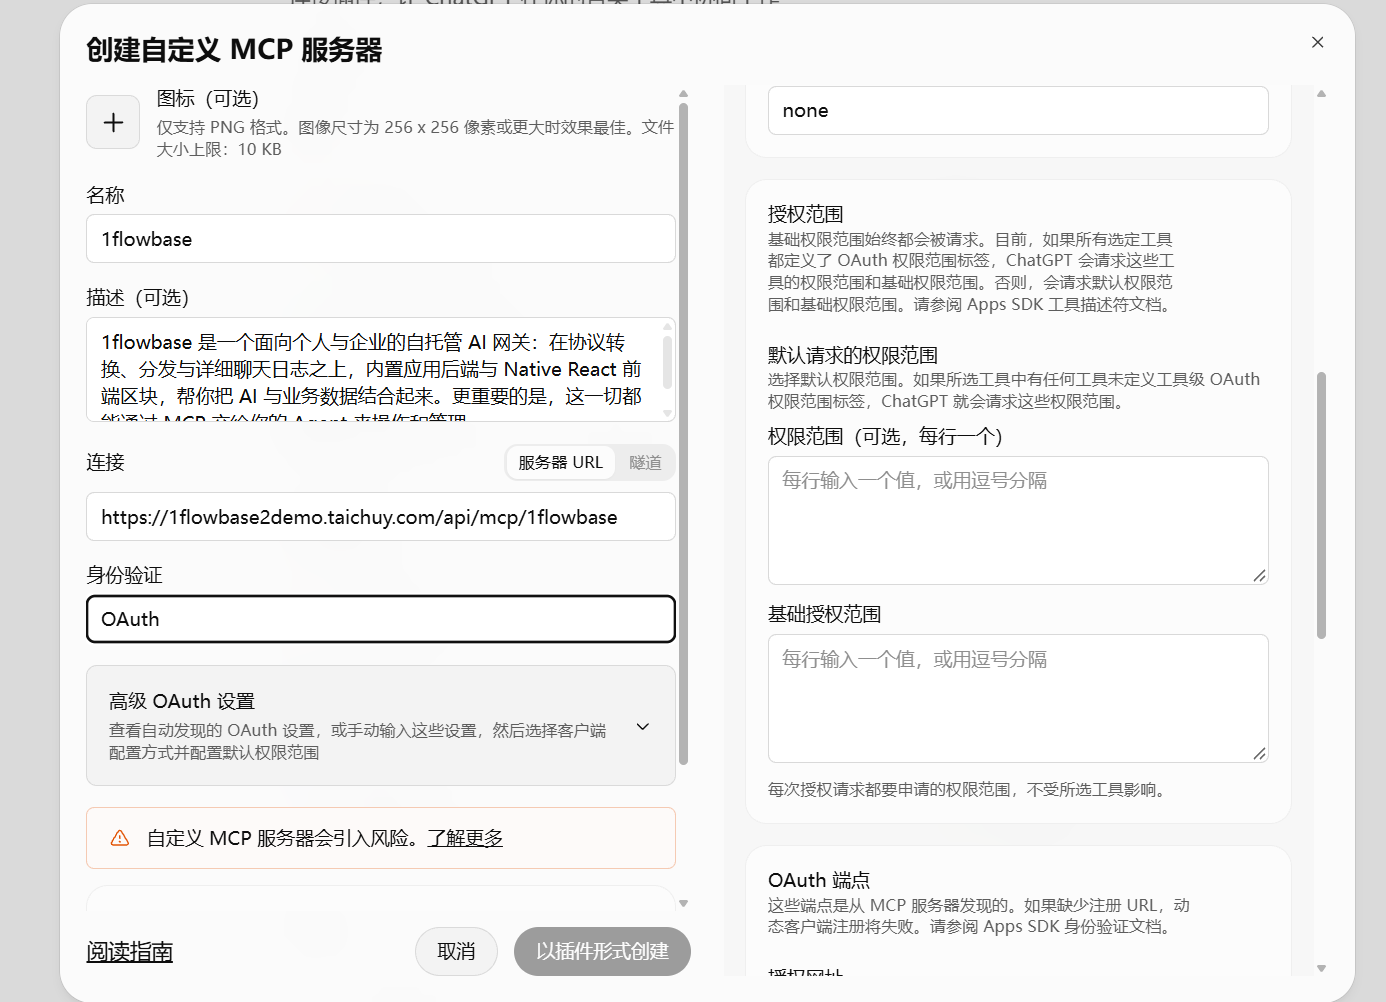
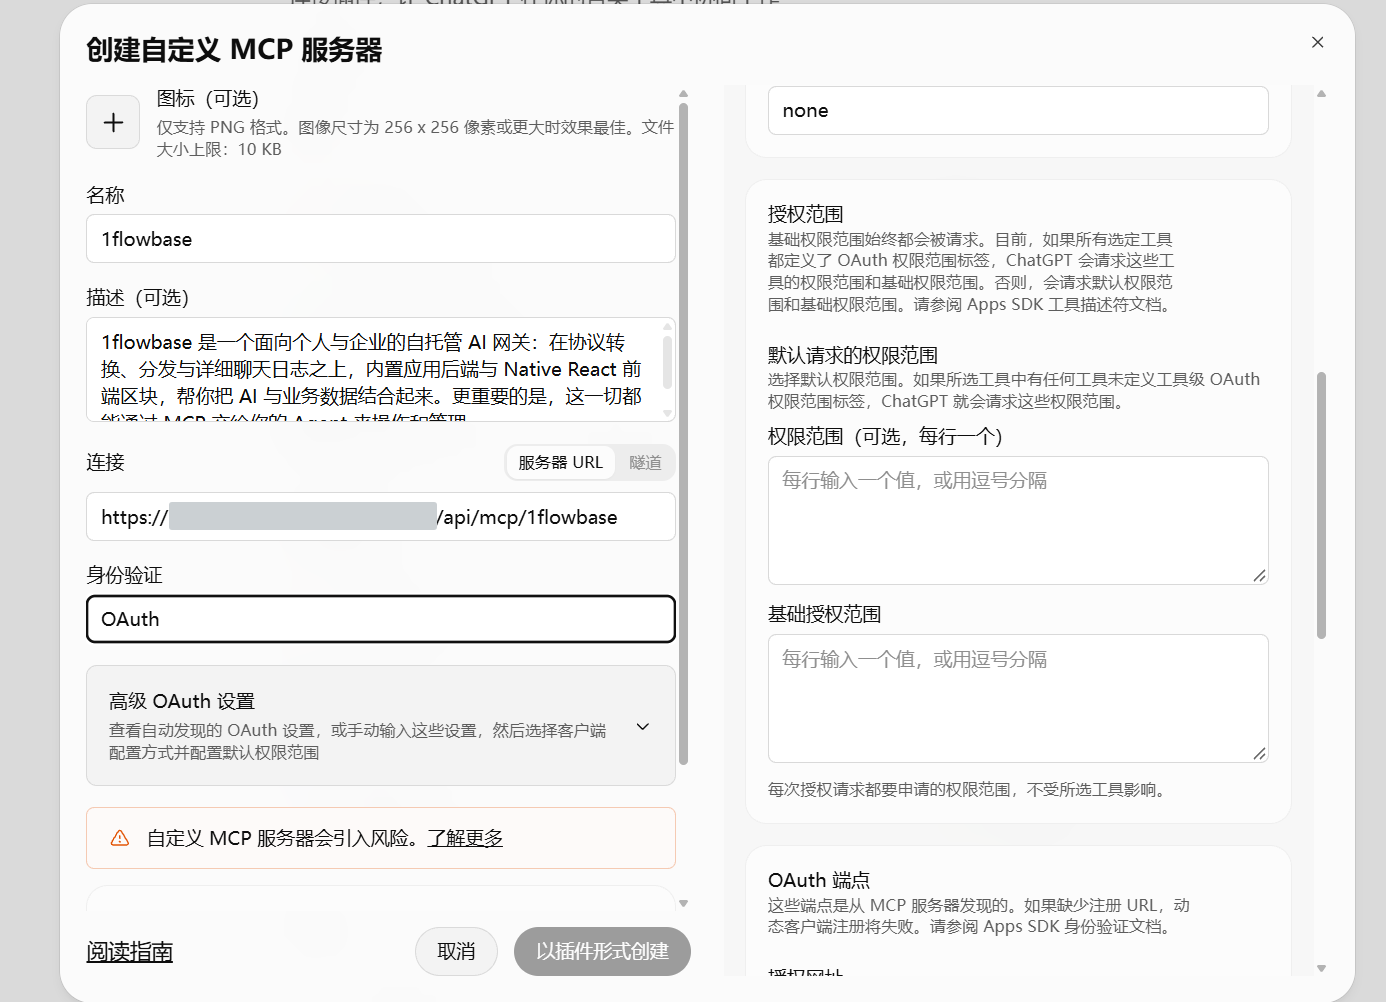
docs(mcp): redact private deployment domains in text and screenshots
Refs #2280

Changed region(s): [[0.1241, 0.495, 0.3413, 0.5259]]

diff --git a/docs/architecture/archive/1954/1954-dev-vite-assembly-receipt.md b/docs/architecture/archive/1954/1954-dev-vite-assembly-receipt.md
@@ -6,7 +6,7 @@
 
 - Branch: `dev`
 - Product assembly: `b208c67679bd053e4778743c589eebf9cd5cd4f9`
-- Public entry: `https://1flowbase.taichuy.cn/`
+- Public entry: 个人公网地址（域名已隐藏）
 - Browser: system Chromium `/usr/bin/google-chrome`, fresh incognito context
 - Runtime mode: Vite development server with source maps and HMR
 
